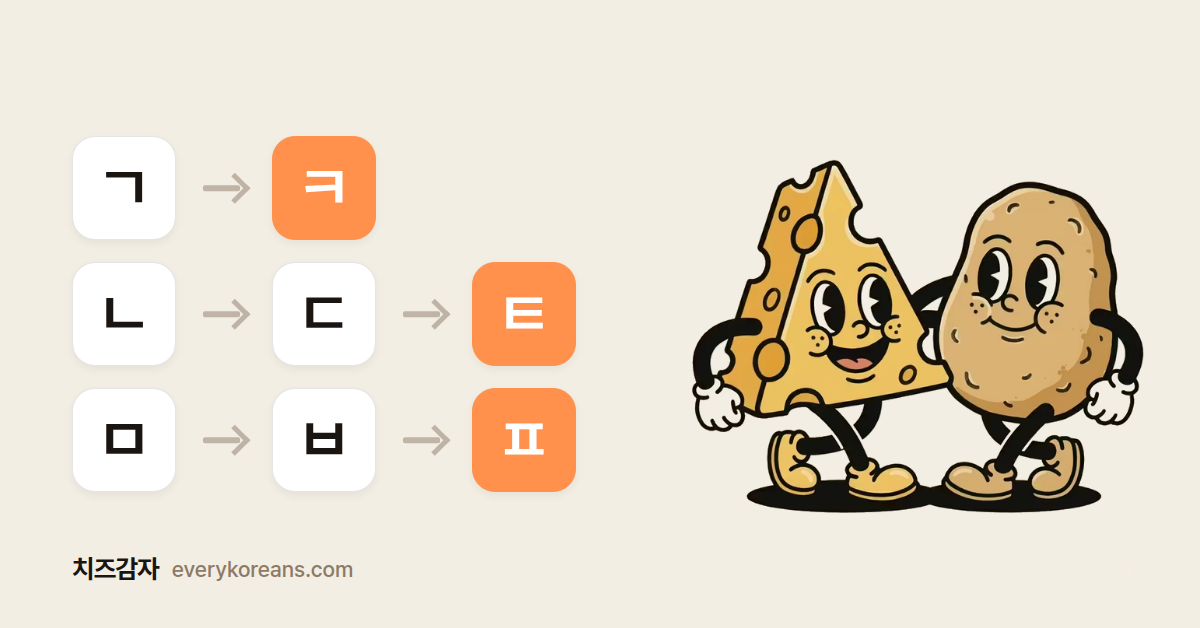
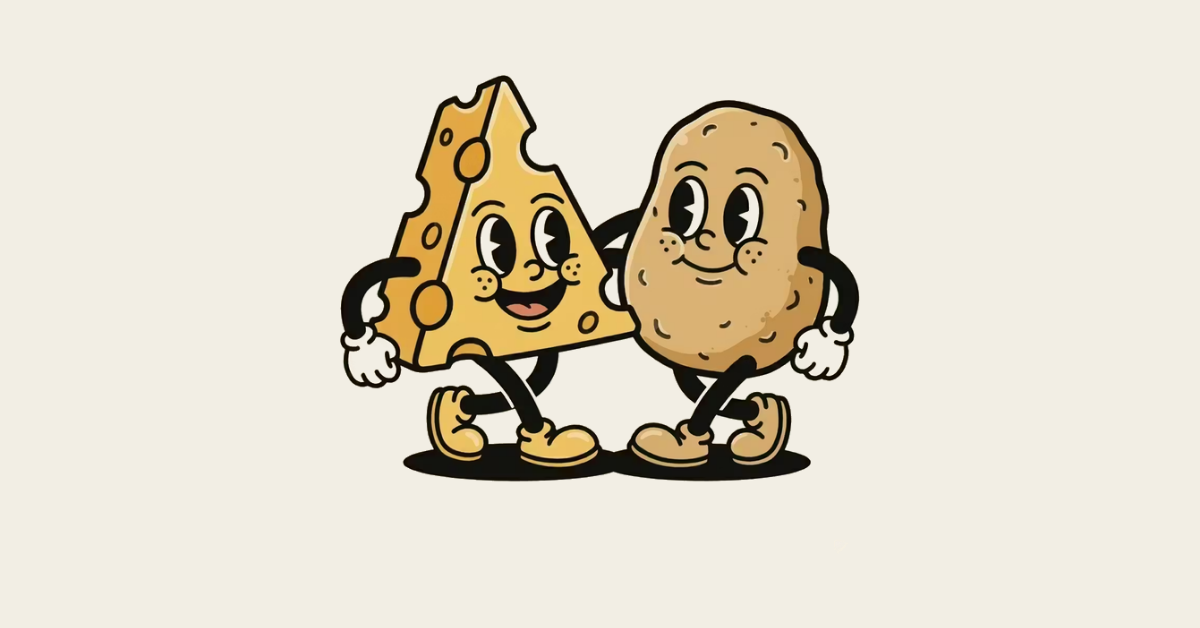
광고 그림에서 글자를 뺀다 — 문구는 캔바에서 얹는다
바탕 색과 마스코트만 남긴다. 글자가 없으니 구글이 지면에 맞춰 어떻게 잘라
써도 말이 깨질 것이 없다.

**바탕 없는 마스코트(mascots.png)를 같이 낸다.** 캔바에서 쓸 것은 이쪽이다 —
logo.png 를 그대로 가져가면 마스코트 뒤에 네모가 보인다. 그 파일의 바탕은
사이트 색보다 조금 어두운 베이지이고 오른쪽 아래에 작은 워터마크 자국도
있는데, 그 둘을 깎아 낸 것이다.

투명 png 는 칸을 찍어서 뽑지 않는다. 칸을 찍으면 뒤에 깔린 바탕이 같이
찍히고, omitBackground 는 쪽 자체에 바탕이 없을 때만 듣는다 — 이 판은 칸이
보이게 body 에 회색을 깔아 두었다. 깎은 캔버스를 그대로 받아 쓴다. 그러면
그 문제가 아예 없고 원본 해상도로 무손실이다. 실제로 한 번 틀렸고
(모서리 알파가 255 로 나왔다) 그래서 고쳤다.

문서에 사이트 색값과 글꼴을 적어 뒀다 — 캔바에서 손으로 맞출 때 쓴다.

Claude-Session: https://claude.ai/code/session_014TWuq7ysqmT5WXqRNHM8c6

diff --git a/tools/ad-images.html b/tools/ad-images.html
@@ -2,97 +2,34 @@
 <!-- 구글 애즈에 올릴 그림의 판. tools/build-ad-images.mjs 가 이 쪽을 열어
      칸마다 사진을 찍는다. 손으로 열어 봐도 된다 — 그대로 보인다.
 
+     **글자를 안 넣는다.** 문구는 캔바에서 얹기로 했다. 여기서 굽는 것은
+     바탕과 마스코트뿐이고, 그래서 어느 지면에 잘려 나가도 말이 깨질 것이
+     없다. 마스코트만 따로 뽑은 투명 png(mascots.png)도 같이 나온다 —
+     캔바에서는 그쪽을 쓰면 바탕을 마음대로 고를 수 있다.
+
      ※ 주소는 저장소 뿌리에서 본 것이다. 뿌리에서 서버를 띄우고
-       /tools/ad-images.html 로 열어야 글꼴과 로고가 붙는다. -->
-<link rel="stylesheet" href="/vendor/pretendard.css">
+       /tools/ad-images.html 로 열어야 로고가 붙는다. -->
 <style>
-:root{--bg:#F2EEE4;--tint:#FDF0E2;--ink:#1B1512;--ink-2:#4E3E31;--ink-3:#8C7A66;
-      --orange:#FF914D;--orange-deep:#C4551C;--line:rgba(27,21,18,.11)}
-*{box-sizing:border-box;margin:0;padding:0;
-  font-family:'Pretendard Variable','Pretendard',-apple-system,sans-serif}
+:root{--bg:#F2EEE4;--tint:#FDF0E2;--ink:#1B1512;--orange:#FF914D}
+*{box-sizing:border-box;margin:0;padding:0}
 body{background:#888}
-.shot{background:var(--bg);position:relative;overflow:hidden;display:flex}
+.shot{background:var(--bg);display:flex;align-items:center;justify-content:center;overflow:hidden}
+.shot img{display:block}
 
-/* 획을 더하면 소리가 세진다 — ㄱ→ㅋ, ㄴ→ㄷ→ㅌ, ㅁ→ㅂ→ㅍ.
-   놀이처럼 보이지만 규칙이고, 블로그의 「한글은 정말 한나절이면 읽나」가
-   하는 이야기 그대로다. 글자 없이도 「한국어」와 「체계」가 같이 읽힌다. */
-.ladder{display:flex;flex-direction:column;justify-content:center;gap:var(--g)}
-.row{display:flex;align-items:center;gap:var(--g)}
-.ltr{width:var(--s);height:var(--s);border-radius:calc(var(--s)*.22);
-     background:#fff;border:1px solid var(--line);
-     display:flex;align-items:center;justify-content:center;
-     font-size:calc(var(--s)*.62);font-weight:600;color:var(--ink);line-height:1;
-     box-shadow:0 calc(var(--s)*.03) calc(var(--s)*.08) rgba(27,21,18,.05)}
-.ltr.on{background:var(--orange);border-color:var(--orange);color:#fff}
-.arw{width:calc(var(--s)*.5);height:calc(var(--s)*.5);flex:none;position:relative}
-.arw::after{content:'';position:absolute;top:50%;left:10%;width:70%;height:calc(var(--s)*.055);
-  background:var(--ink-3);opacity:.5;transform:translateY(-50%);border-radius:2px}
-.arw::before{content:'';position:absolute;top:50%;right:8%;width:calc(var(--s)*.16);height:calc(var(--s)*.16);
-  border-top:calc(var(--s)*.055) solid var(--ink-3);border-right:calc(var(--s)*.055) solid var(--ink-3);
-  opacity:.5;transform:translateY(-50%) rotate(45deg)}
-
-.mascot{position:absolute;pointer-events:none}
-.wm{position:absolute;display:flex;align-items:center;gap:.5em;color:var(--ink);
-    font-weight:700;letter-spacing:-.03em}
-.wm small{color:var(--ink-3);font-weight:500;letter-spacing:0}
-
-/* 가로 1.91:1 — 구글이 권하는 치수 */
-#land{width:1200px;height:628px;--s:104px;--g:22px;align-items:center;padding:0 72px}
-#land .ladder{flex:none}
-#land .mascot{right:56px;bottom:52px;width:452px}
-#land .wm{left:72px;bottom:44px;font-size:26px}
-
-/* 정사각 1:1 */
-#sq{width:1200px;height:1200px;--s:150px;--g:30px;
-    flex-direction:column;align-items:center;justify-content:center;gap:40px;padding:80px}
-#sq .mascot{position:static;width:520px;margin-bottom:8px}
-#sq .wm{position:static;font-size:40px;margin-top:20px}
-
-/* 세로 4:5 — 넣으면 지면이 늘어난다 */
-#port{width:960px;height:1200px;--s:132px;--g:26px;
-      flex-direction:column;align-items:center;justify-content:center;gap:46px;padding:70px}
-#port .mascot{position:static;width:460px}
-#port .wm{position:static;font-size:36px}
-
-/* 로고 칸은 그림 칸과 따로다 — 1:1 과 4:1 을 받는다 */
-#logo1{width:1200px;height:1200px;align-items:center;justify-content:center}
-#logo1 img{width:940px}
-#logo4{width:1200px;height:300px;align-items:center;justify-content:center;gap:34px}
-#logo4 img{width:232px}
-#logo4 .t{font-size:82px;font-weight:700;color:var(--ink);letter-spacing:-.04em}
+/* 마스코트를 가운데에 넉넉한 여백과 함께 둔다. 구글은 이 그림을 지면에
+   맞춰 제멋대로 잘라 쓰므로, 가장자리에 붙여 두면 발이 잘린다. */
+#land{width:1200px;height:628px}      #land  img{height:480px}
+#sq{width:1200px;height:1200px}       #sq    img{width:820px}
+#port{width:960px;height:1200px}      #port  img{width:720px}
+#logo1{width:1200px;height:1200px}    #logo1 img{width:940px}
+#logo4{width:1200px;height:300px}     #logo4 img{height:232px}
 </style></head><body>
 
-<div class="shot" id="land">
-  <div class="ladder">
-    <div class="row"><div class="ltr">ㄱ</div><div class="arw"></div><div class="ltr on">ㅋ</div></div>
-    <div class="row"><div class="ltr">ㄴ</div><div class="arw"></div><div class="ltr">ㄷ</div><div class="arw"></div><div class="ltr on">ㅌ</div></div>
-    <div class="row"><div class="ltr">ㅁ</div><div class="arw"></div><div class="ltr">ㅂ</div><div class="arw"></div><div class="ltr on">ㅍ</div></div>
-  </div>
-  <img class="mascot" alt="">
-  <div class="wm">치즈감자 <small>everykoreans.com</small></div>
-</div>
-
-<div class="shot" id="sq">
-  <img class="mascot" alt="">
-  <div class="ladder">
-    <div class="row"><div class="ltr">ㅁ</div><div class="arw"></div><div class="ltr">ㅂ</div><div class="arw"></div><div class="ltr on">ㅍ</div></div>
-    <div class="row"><div class="ltr">ㄴ</div><div class="arw"></div><div class="ltr">ㄷ</div><div class="arw"></div><div class="ltr on">ㅌ</div></div>
-  </div>
-  <div class="wm">치즈감자 <small>everykoreans.com</small></div>
-</div>
-
-<div class="shot" id="port">
-  <img class="mascot" alt="">
-  <div class="ladder">
-    <div class="row"><div class="ltr">ㄱ</div><div class="arw"></div><div class="ltr on">ㅋ</div></div>
-    <div class="row"><div class="ltr">ㄴ</div><div class="arw"></div><div class="ltr">ㄷ</div><div class="arw"></div><div class="ltr on">ㅌ</div></div>
-    <div class="row"><div class="ltr">ㅁ</div><div class="arw"></div><div class="ltr">ㅂ</div><div class="arw"></div><div class="ltr on">ㅍ</div></div>
-  </div>
-  <div class="wm">치즈감자 <small>everykoreans.com</small></div>
-</div>
-
+<div class="shot" id="land"><img class="mascot" alt=""></div>
+<div class="shot" id="sq"><img class="mascot" alt=""></div>
+<div class="shot" id="port"><img class="mascot" alt=""></div>
 <div class="shot" id="logo1"><img class="mascot" alt=""></div>
-<div class="shot" id="logo4"><img class="mascot" alt=""><div class="t">치즈감자</div></div>
+<div class="shot" id="logo4"><img class="mascot" alt=""></div>
 
 <script src="/tools/ad-images-cutout.js"></script>
 </body></html>

diff --git a/tools/ad-images-cutout.js b/tools/ad-images-cutout.js
@@ -81,6 +81,15 @@
     var list = document.querySelectorAll('img.mascot');
     for (var n = 0; n < list.length; n++) list[n].src = url;
 
+    /* 깎은 것을 그대로 내놓는다. build-ad-images.mjs 가 이것을 받아
+       assets/ads/mascots.png 로 쓴다 — 캔바에서 쓸 투명 png 다.
+
+       사진을 찍어서 뽑지 않는 까닭: 칸을 찍으면 뒤에 깔린 바탕이 같이
+       찍힌다. omitBackground 는 쪽 자체에 바탕이 없을 때만 듣는데, 이
+       판은 칸이 보이게 body 에 회색을 깔아 두었다. 캔버스에서 바로
+       가져오면 그 문제가 아예 없고 원본 해상도로 무손실이다. */
+    window.__mascotPng = url;
+
     /* build-ad-images.mjs 가 이 자국을 기다린다 */
     document.documentElement.setAttribute('data-mascot', 'ready');
   };

diff --git a/docs/google-ads-assets.md b/docs/google-ads-assets.md
@@ -164,7 +164,11 @@
 ## 그림
 
 P-Max 자산 그룹은 **가로 1장과 정사각 1장을 반드시 받는다.** 로고 칸은 그림
-칸과 따로다. 다 구워서 `assets/ads/` 에 두었으니 그대로 올리면 된다.
+칸과 따로다.
+
+**여기서 굽는 것에는 글자가 없다.** 문구는 캔바에서 얹기로 했다. 바탕
+색(`#F2EEE4`)과 마스코트만 들어 있어서, 구글이 지면에 맞춰 어떻게 잘라 써도
+말이 깨질 것이 없다.
 
 | 파일 | 어디에 | 치수 |
 | --- | --- | --- |
@@ -173,20 +177,34 @@ P-Max 자산 그룹은 **가로 1장과 정사각 1장을 반드시 받는다.**
 | `assets/ads/portrait-960x1200.png` | 세로 이미지 (선택) | 960×1200 (4:5) |
 | `assets/ads/logo-square-1200x1200.png` | **로고** 칸 | 1200×1200 (1:1) |
 | `assets/ads/logo-wide-1200x300.png` | **로고** 칸 | 1200×300 (4:1) |
+| `assets/ads/mascots.png` | **캔바에서 쓸 것** | 581×536 · **바탕 없음** |
 
 세로는 없어도 되지만 넣으면 지면이 늘어난다 — 유튜브와 디스커버가 세로
 자리를 따로 가진다.
 
-### 무엇을 그렸나
+### 캔바에서 만들 때
 
-**획을 더하면 소리가 세진다** — ㄱ→ㅋ, ㄴ→ㄷ→ㅌ, ㅁ→ㅂ→ㅍ. 이 그림 하나가
-문과 안을 같이 말한다. 글자 모양은 놀이처럼 보이고, 화살표로 이어진 줄은
-**규칙이 있다**는 말이다. 블로그의 「한글은 정말 한나절이면 읽나」가 하는
-이야기를 그대로 그림으로 옮긴 것이라, 눌러 들어온 사람이 같은 이야기를
-다시 만난다.
+`mascots.png` 를 쓰면 된다. **바탕이 없는 투명 png** 라 어느 색 위에도
+얹힌다. `logo.png` 를 그대로 가져가면 마스코트 뒤에 네모가 보인다 — 그
+파일의 바탕은 사이트 색보다 조금 어두운 베이지이고, 오른쪽 아래에 작은
+워터마크 자국도 있다. 그 둘을 깎아 낸 것이 `mascots.png` 다.
 
-글자를 거의 안 넣었다. 구글은 이 그림을 지면에 맞춰 **제멋대로 잘라 쓴다**
-— 글이 많으면 잘려서 말이 안 되는 채로 나간다. 상표와 주소만 발치에 둔다.
+사이트 색을 같이 쓰려면:
+
+| 쓰임 | 값 |
+| --- | --- |
+| 바탕 | `#F2EEE4` |
+| 옅은 바탕 | `#FDF0E2` |
+| 글자 | `#1B1512` |
+| 흐린 글자 | `#8C7A66` |
+| 강조 | `#FF914D` |
+| 진한 강조 | `#C4551C` |
+
+글꼴은 **Pretendard** 다(`vendor/pretendard.css`). 캔바에 없으면 본문용
+고딕 가운데 획 굵기가 고른 것을 쓰면 비슷해진다.
+
+**글자를 많이 넣지 말 것.** 구글은 이 그림을 지면에 맞춰 제멋대로 잘라 쓴다
+— 글이 많으면 잘려서 말이 안 되는 채로 나간다. 상표와 한 줄 정도가 적당하다.
 
 ### 다시 굽기
 
@@ -198,7 +216,8 @@ node tools/build-ad-images.mjs
 ```
 
 판은 `tools/ad-images.html` 이다 — 브라우저로 열어 보면 그대로 보이므로,
-고칠 때는 거기를 고치고 다시 구우면 된다.
+고칠 때는 거기를 고치고 다시 구우면 된다. 이미 크로미움이 있으면
+`CHROME_PATH=/경로/chrome` 를 앞에 붙이면 또 받지 않는다.
 
 ---
 
